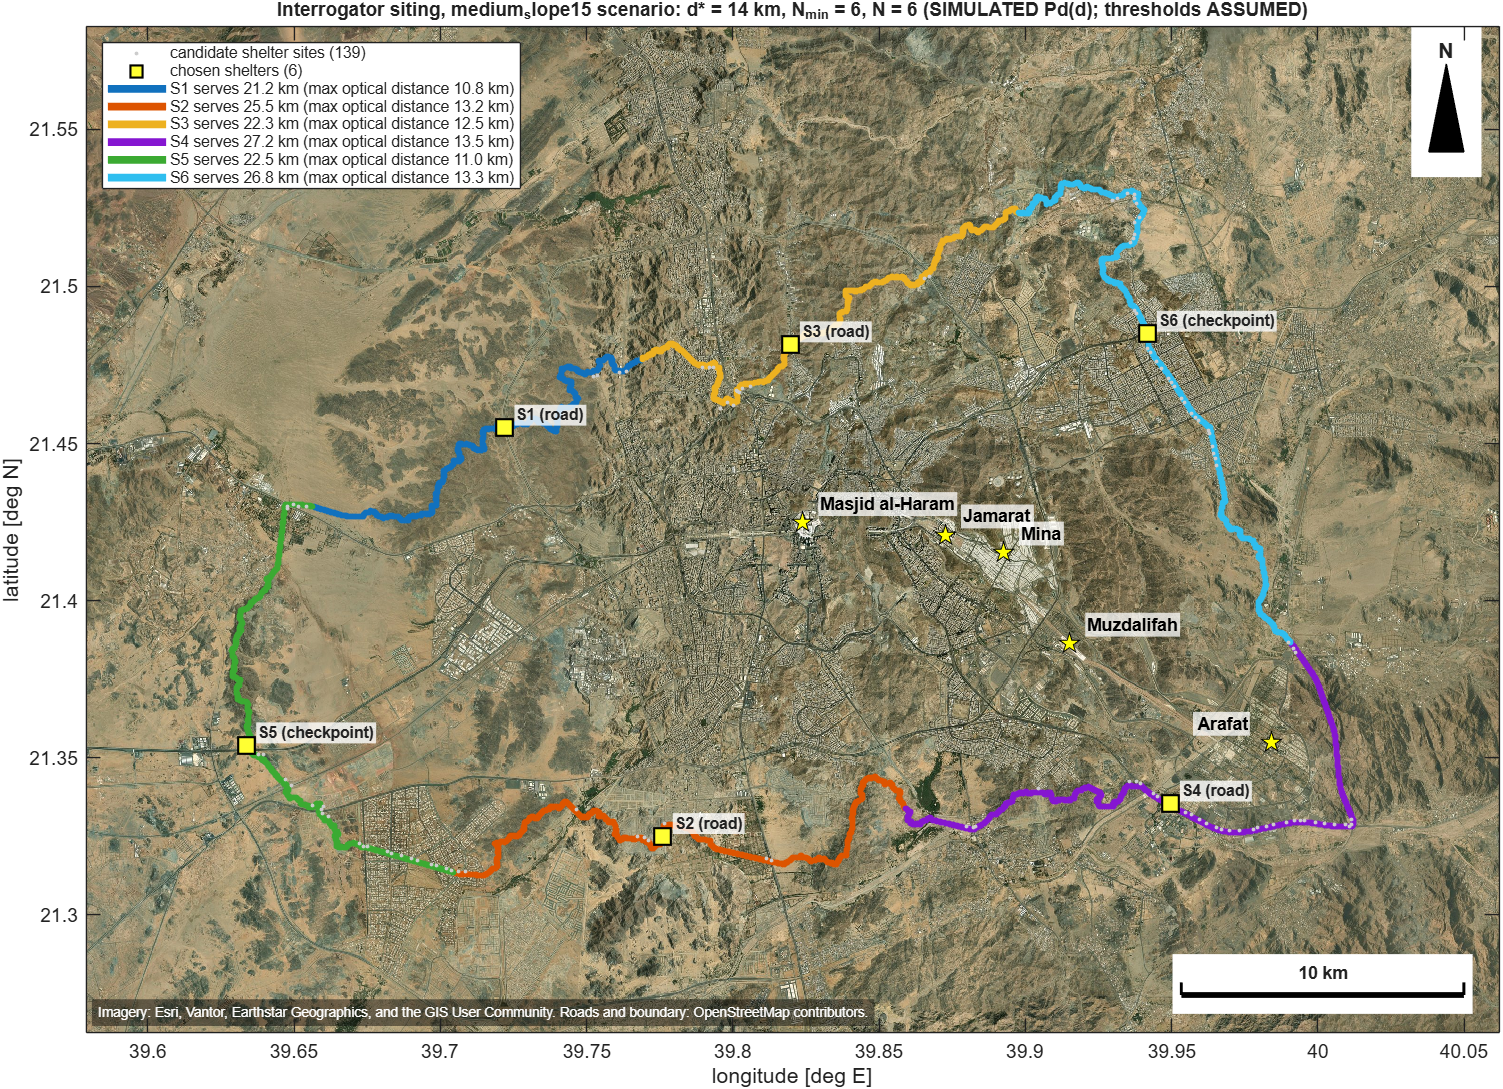
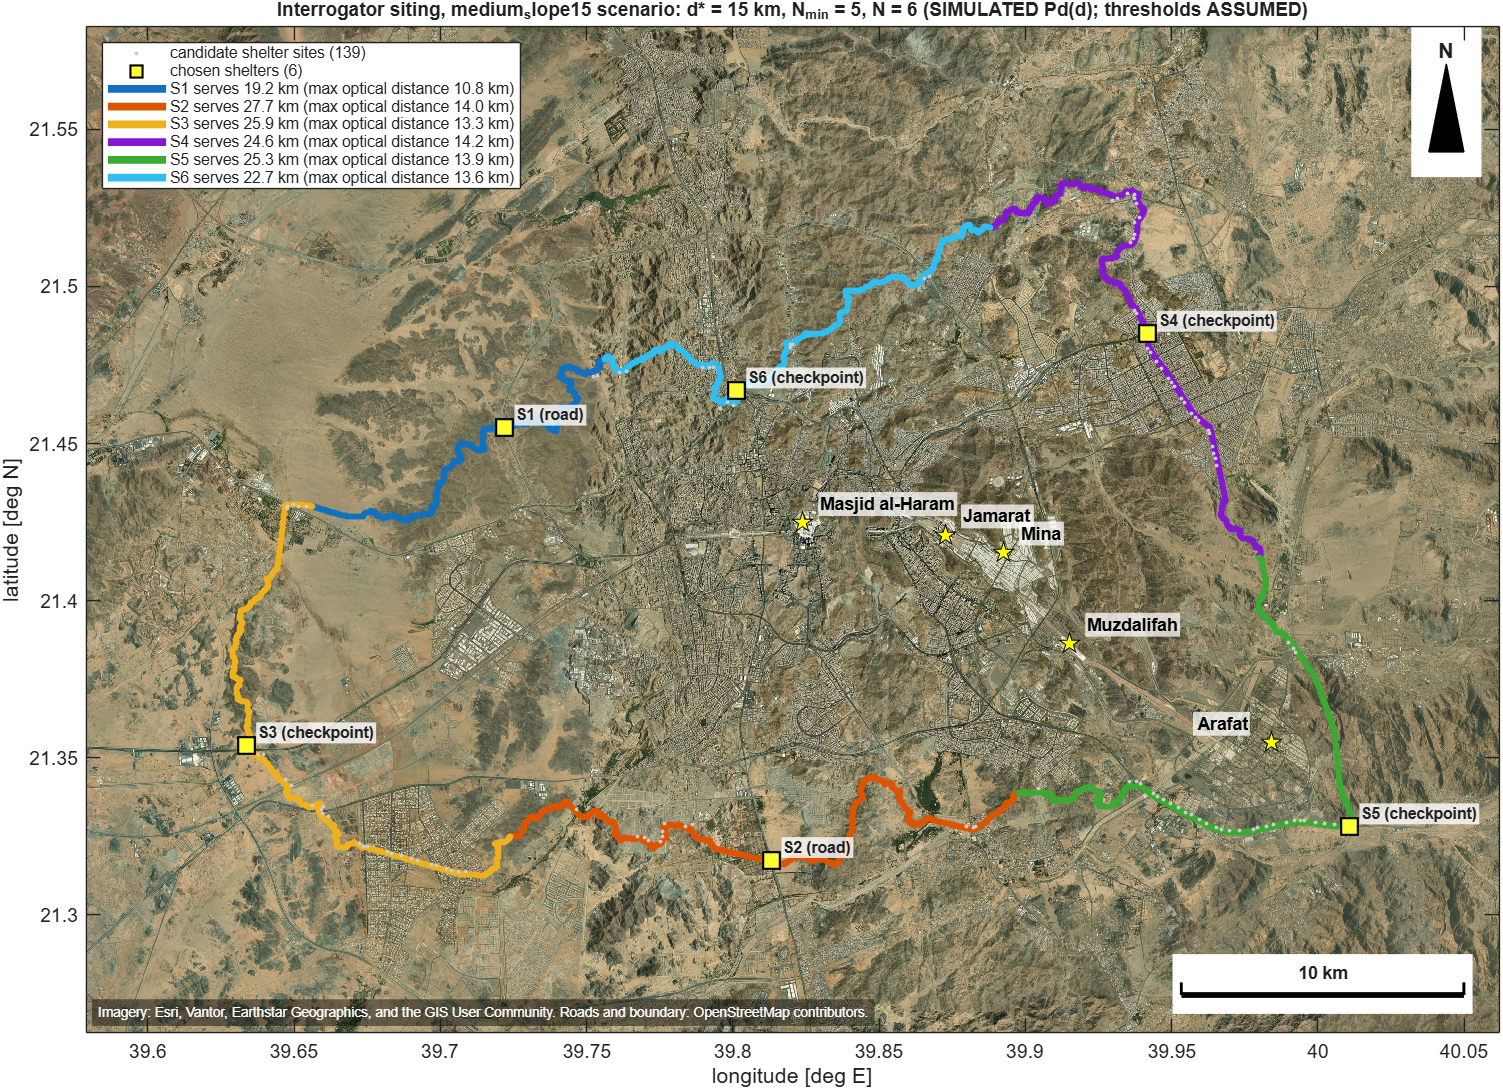
Siting: N = 5 feasibility test script, Nfix option in the frozen copy, per-case sensitivity results, provenance of branch commit 42eadb7

diff --git a/scripts/siting_n5_test.m b/scripts/siting_n5_test.m
@@ -1,0 +1,36 @@
+% SITING_N5_TEST  Why does the MILP choose N = 6 although N_min = ceil(L / (2 d*)) = 5 (d* = 14.75 km)?  Three tests, one MATLAB session:
+%  (A) IDEAL sites (any arc position, lead-in 0, whole-run reach d*): can 5 sites cover the whole boundary?  (analytic bound: reach 14.75 km >= L / 10 = 14.55 km, so yes in principle)
+%  (B) the REAL candidate sites (road + checkpoint, lead-in = route factor x distance, reach d* - lead-in): minimum number of sites and the best 5-site cover, with the uncovered boundary stretches;
+%  (C) the full MILP with N = 5 forced (Siting.Nfix), same objectives: infeasible or more expensive?
+% A run (about 1 km of fibre) is covered by a site if BOTH ends of the run are within d* optical distance (lead-in + arc distance along the ring).
+addpath(fullfile(fileparts(mfilename('fullpath')), '..', 'src'));   root = setup_paths();   P = load_params_fd();   T = load_twin(P);   [~, ~, A] = get_allocation(P, 'medium');
+J = jsondecode(fileread(fullfile(root, 'results', 'siting', 'd_star.json')));   ds = J.d_star_km * 1e3;   r = T.cells.ring;   L = r.L;   runs = T.cells.runs;   s0 = runs.s0(:);   s1 = runs.s1(:);   len = runs.len(:);   nR = numel(s0);
+arcd = @(a, b) min(abs(a - b), L - abs(a - b));
+C = make_candidates(T, P, A);   save(fullfile(root, 'results', 'siting', 'candidates_base.mat'), 'C');   pos = [C.arc_m]';   lead = [C.leadin_m]';
+cover = @(pos, lead) (max(arcd(pos', s0), arcd(pos', s1)) + lead' <= ds);          % nR x nC logical
+out = struct();
+% ---- (A) ideal sites every 100 m, no lead-in
+posI = (0:100:L)';   CI = cover(posI, zeros(size(posI)));   [nI, ~] = mincover(CI);   out.ideal_min_sites = nI;
+% ---- (B) real candidates
+CB = cover(pos, lead);   [nB, ~] = mincover(CB);   out.real_min_sites = nB;
+% best 5-site cover (maximise covered fibre length)
+nC = numel(pos);   f = [zeros(nC, 1); -len];   Aineq = [-CB, eye(nR)];   bineq = zeros(nR, 1);   Aeq = [ones(1, nC), zeros(1, nR)];   x = intlinprog(f, 1:(nC + nR), Aineq, bineq, Aeq, 5, zeros(nC + nR, 1), ones(nC + nR, 1), optimoptions('intlinprog', 'Display', 'off'));
+y = x(1:nC) > 0.5;   z = x(nC+1:end) > 0.5;   out.best5_uncovered_km = sum(len(~z)) / 1e3;   out.best5_sites = {C(y).name};   out.best5_arcs_km = pos(y)' / 1e3;
+unc = find(~z);   out.uncovered_runs_arc_km = [s0(unc) s1(unc)] / 1e3;
+% for every uncovered run: the best a candidate could do (the distance by which the nearest candidate misses the run)
+miss = zeros(numel(unc), 1);   for q = 1:numel(unc), mm = max(arcd(pos', s0(unc(q))), arcd(pos', s1(unc(q)))) + lead' - ds;   miss(q) = min(mm); end,   out.uncovered_min_excess_km = miss' / 1e3;
+fprintf('(A) ideal sites: minimum %d | (B) real candidates: minimum %d sites; best 5 leave %.2f km uncovered\n', nI, nB, out.best5_uncovered_km);
+if ~isempty(unc), fprintf('    uncovered stretches (arc km):\n'); disp(out.uncovered_runs_arc_km); fprintf('    each exceeds the reach of the nearest allowed site by (km):\n'); disp(out.uncovered_min_excess_km); end
+% ---- (C) full MILP with N = 5
+out.milp_N5 = 'not run';
+try
+    al = get_allocation_siting(P, 'medium', 'Cand', C, 'Nfix', 5, 'Tag', 'N5', 'Force', true);   out.milp_N5 = sprintf('feasible: N %d, C_total %.0f', al.n_interrogators, al.C_total);
+catch ME
+    out.milp_N5 = ['infeasible or failed: ' strtrim(ME.message)];
+end
+disp(out.milp_N5);   fid = fopen(fullfile(root, 'results', 'siting', 'n5_test.json'), 'w');   fprintf(fid, '%s', jsonencode(out, 'PrettyPrint', true));   fclose(fid);
+
+function [n, y] = mincover(Cv)
+[nR, nC] = size(Cv);   x = intlinprog([ones(nC, 1)], 1:nC, -Cv, -ones(nR, 1), [], [], zeros(nC, 1), ones(nC, 1), optimoptions('intlinprog', 'Display', 'off'));
+if isempty(x), n = Inf;  y = false(nC, 1); else, y = x > 0.5;  n = nnz(y); end
+end

diff --git a/src/siting/get_allocation_siting.m b/src/siting/get_allocation_siting.m
@@ -8,18 +8,18 @@ function [alloc, C, S] = get_allocation_siting(P, scenario, varargin)
 %   Candidates: make_candidates (roads, slope, waterways, checkpoints); C is the candidate struct array. N_min = ceil(L_boundary / (2 d*)); the MILP asserts N >= N_min.
 %   Objectives (lexicographic): violations, shortfall, C_total (interrogator + shelter + sensing fibre + LEAD-IN fibre), then the sum over runs of (expected intruders x optical distance),
 %   then as many interrogators as possible at the checkpoints, then A_ver of the Hot cells. Saved in results/alloc_<scenario>_22_siting[_<tag>].mat (the solver licence is a trial).
-ip = inputParser;   addParameter(ip, 'DStarKm', []);   addParameter(ip, 'Tag', '');   addParameter(ip, 'Force', false);   addParameter(ip, 'Slope', []);   addParameter(ip, 'RoadM', []);   addParameter(ip, 'WaterM', []);   addParameter(ip, 'InsideMax', []);
+ip = inputParser;   addParameter(ip, 'DStarKm', []);   addParameter(ip, 'Tag', '');   addParameter(ip, 'Force', false);   addParameter(ip, 'Slope', []);   addParameter(ip, 'RoadM', []);   addParameter(ip, 'WaterM', []);   addParameter(ip, 'InsideMax', []);   addParameter(ip, 'Nfix', []);   addParameter(ip, 'Cand', []);
 parse(ip, varargin{:});   o = ip.Results;
 root = fileparts(fileparts(fileparts(mfilename('fullpath')))); tag = o.Tag;   if ~isempty(tag), tag = ['_' tag]; end
 f = fullfile(root, 'results', sprintf('alloc_%s_22_siting%s.mat', scenario, tag));
 T = load_twin(P);   [~, ~, A] = get_allocation(P, scenario);
 cargs = {};   if ~isempty(o.Slope), cargs = [cargs {'Slope', o.Slope}]; end,   if ~isempty(o.RoadM), cargs = [cargs {'RoadM', o.RoadM}]; end,   if ~isempty(o.WaterM), cargs = [cargs {'WaterM', o.WaterM}]; end,   if ~isempty(o.InsideMax), cargs = [cargs {'InsideMax', o.InsideMax}]; end
-C = make_candidates(T, P, A, cargs{:});
+if isempty(o.Cand), C = make_candidates(T, P, A, cargs{:}); else, C = o.Cand; end
 if isempty(o.DStarKm), J = jsondecode(fileread(fullfile(root, 'results', 'siting', 'd_star.json')));   dstar = J.d_star_km; else, dstar = o.DStarKm; end
 Nmin = ceil(P.v.L_boundary_m / 1e3 / (2 * dstar));
 c = T.cells;   runLam = zeros(numel(c.runs.cell), 1);                       % expected intruders per day on every run: cell rate (Cold 1-2, Neutral 8-10, Hot 11-20 per zone, spread by risk x length) x share of the cell length on the run
 for r = 1:numel(runLam), runLam(r) = T.lambda.mid(c.runs.cell(r)) * c.runs.len(r) / c.L_m(c.runs.cell(r)); end
-S = struct('cand', C, 'dstar_m', dstar * 1e3, 'Nmin', Nmin, 'RunWeights', runLam);
+S = struct('cand', C, 'dstar_m', dstar * 1e3, 'Nmin', Nmin, 'RunWeights', runLam);   if ~isempty(o.Nfix), S.Nfix = o.Nfix; end
 if isfile(f) && ~o.Force, X = load(f);   alloc = X.alloc;   fprintf('get_allocation_siting: loaded %s\n', f);   return; end
 oldp = fullfile(root, 'third_party', 'optimization', 'src');   newp = fullfile(root, 'third_party', 'optimization_siting', 'src');
 rmpath(oldp);   addpath(newp);   cleanup = onCleanup(@() swap_path(newp, oldp));

diff --git a/third_party/optimization_siting/src/run_optimization.m b/third_party/optimization_siting/src/run_optimization.m
@@ -142,7 +142,7 @@ addLE(droneCols(:), droneW(:), scen.N_drone);   rowBudget = row;                
 % valid cut (tightens the LP bound): one site serves at most 2*(R_DAS - lead-in) of fibre, so total fibre <= 2*Rmax*sum(y)
 addLE([iz; iy], [runs.len; -2 * Rmax(:)], 0);
 addLE(iy, (v.P_DAS + v.P_shelter) * ones(nC, 1), v.P0 - 1e-6);                % power of the new equipment < P0
-if ~isempty(o.Siting), addLE(iy, -ones(nC, 1), -o.Siting.Nmin);   end             % siting branch: at least N_min = ceil(L / (2 d*)) interrogators (analytic lower bound, also asserted after the solve)
+if ~isempty(o.Siting), addLE(iy, -ones(nC, 1), -o.Siting.Nmin);   if isfield(o.Siting, 'Nfix') && ~isempty(o.Siting.Nfix), addEQ(iy, ones(nC, 1), o.Siting.Nfix); end,   end      % optional Siting.Nfix: exactly this many interrogators (feasibility test of N = N_min)             % siting branch: at least N_min = ceil(L / (2 d*)) interrogators (analytic lower bound, also asserted after the solve)
 % u (assignment): every fibre run that is not the own run of a chosen site is served by exactly one channel that is able to reach it; u <= a
 if useU
 duP = iup(1) - iap(1);   duM = ium(1) - iam(1);   uCol = @(col) col + duP * (col <= iap(end)) + duM * (col > iap(end));

diff --git a/third_party/PROVENANCE.md b/third_party/PROVENANCE.md
@@ -24,4 +24,4 @@
 ## Interrogator siting (added 23 Nov 2026)
 | Folder | Source | Commit | Notes |
 | --- | --- | --- | --- |
-| `optimization_siting/` | https://github.com/aljoudm/optimization, branch `interrogator-siting` (main untouched) | `d39f6b7558eaa388b0394d35b2d35fdcc842d3c9` | Byte-for-byte copy of `src/` and `inputs/` of the branch: MILP with candidate shelter sites (lead-in fibre, reach d* - lead-in), analytic N_min, lexicographic stages 2b/2c. Without the `Siting` option it gives the results of f51b223 (tests/test_siting_equivalence.m: low, medium). Pushed 23 Nov 2026. |
+| `optimization_siting/` | https://github.com/aljoudm/optimization, branch `interrogator-siting` (main untouched) | `42eadb75f7922d71c3911086d34a25d4dc131063` (was d39f6b7 until the optional Nfix test option was added) | Byte-for-byte copy of `src/` and `inputs/` of the branch: MILP with candidate shelter sites (lead-in fibre, reach d* - lead-in), analytic N_min, lexicographic stages 2b/2c. Without the `Siting` option it gives the results of f51b223 (tests/test_siting_equivalence.m: low, medium). Pushed 23 Nov 2026. |
